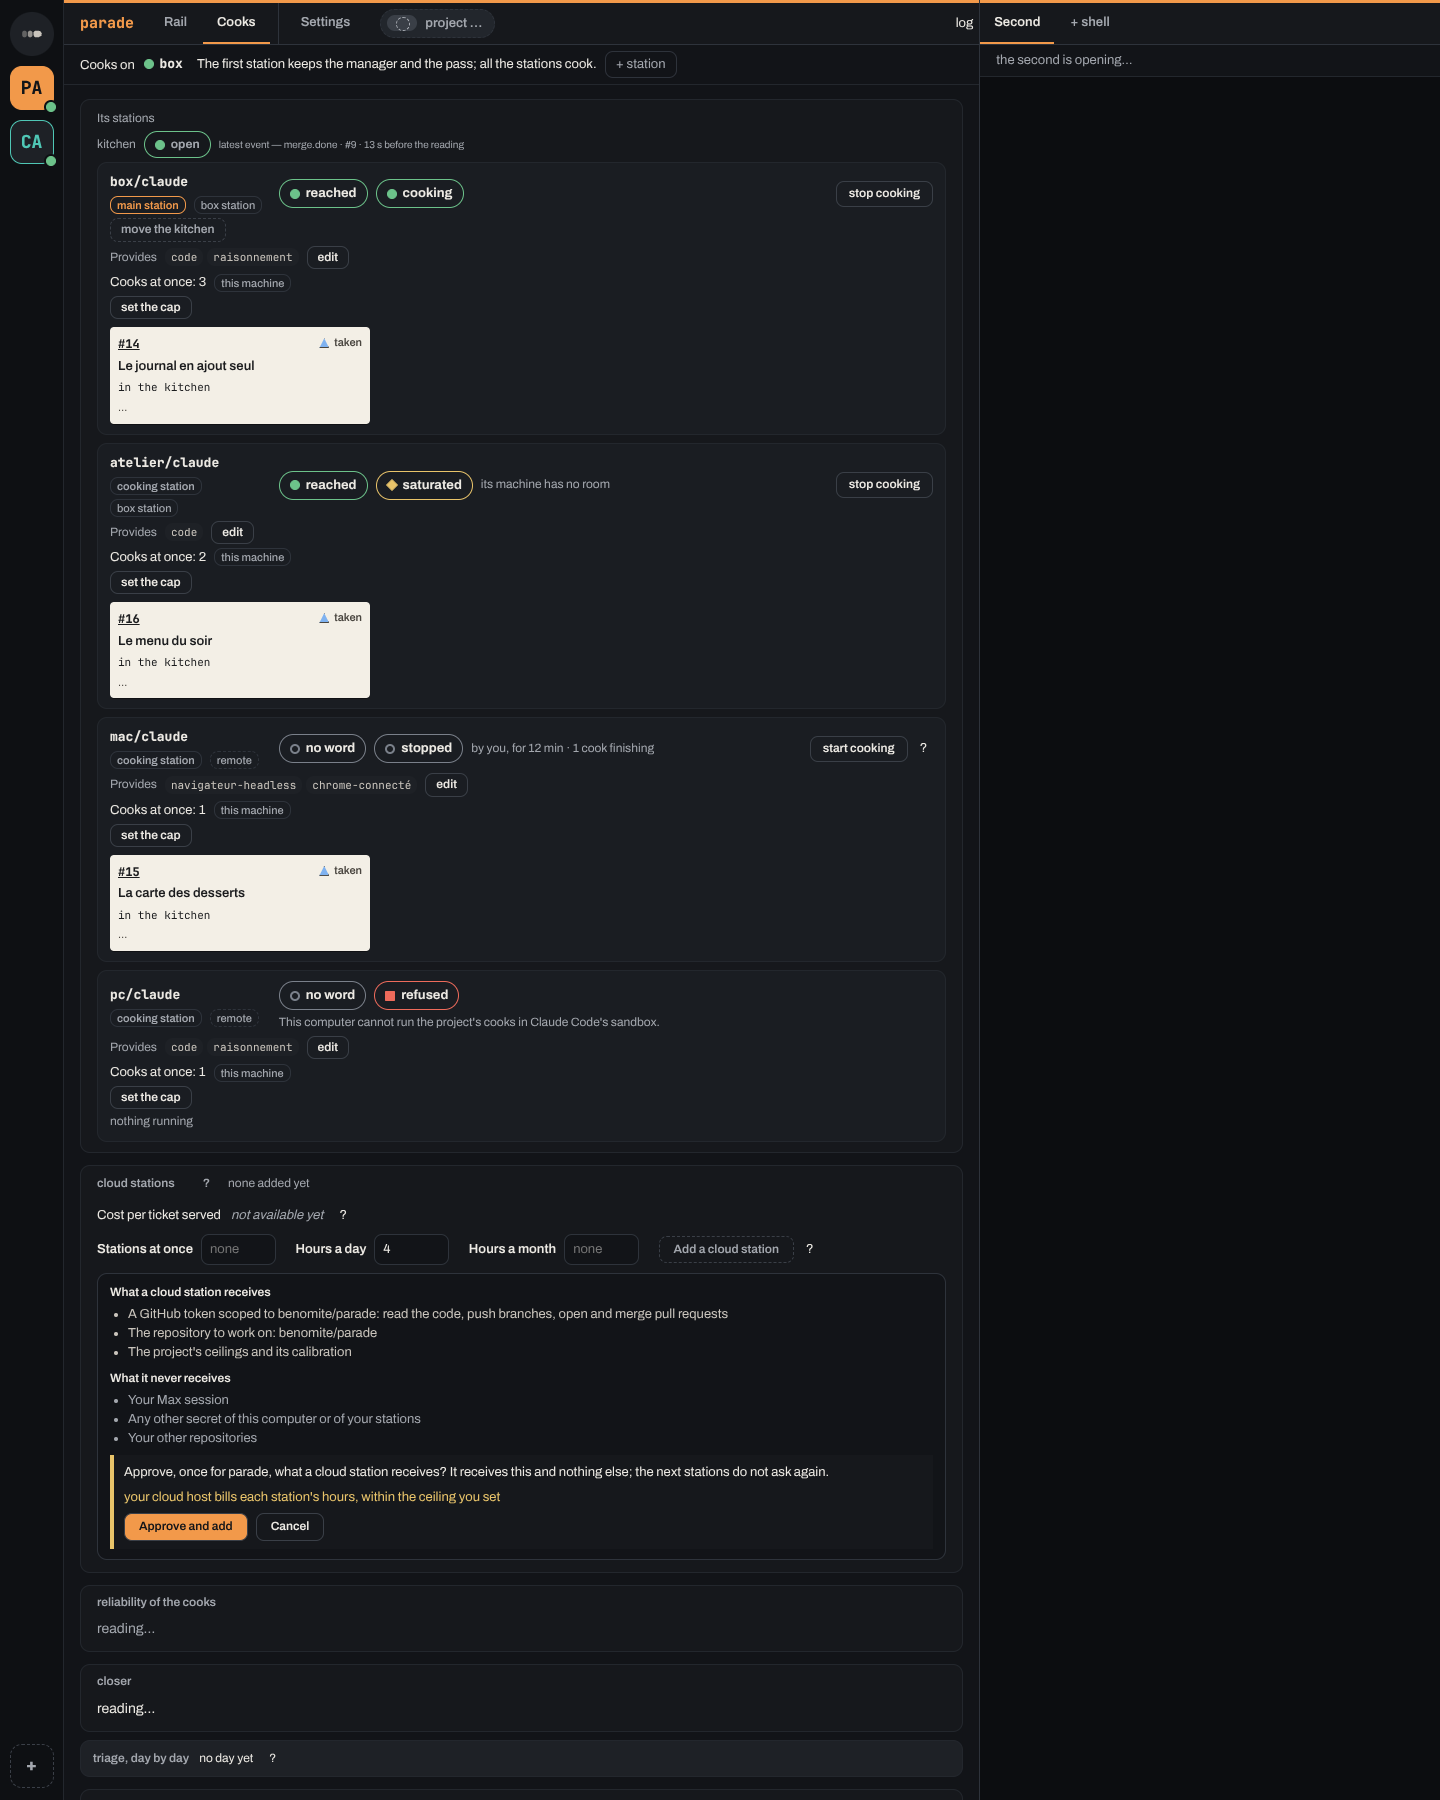
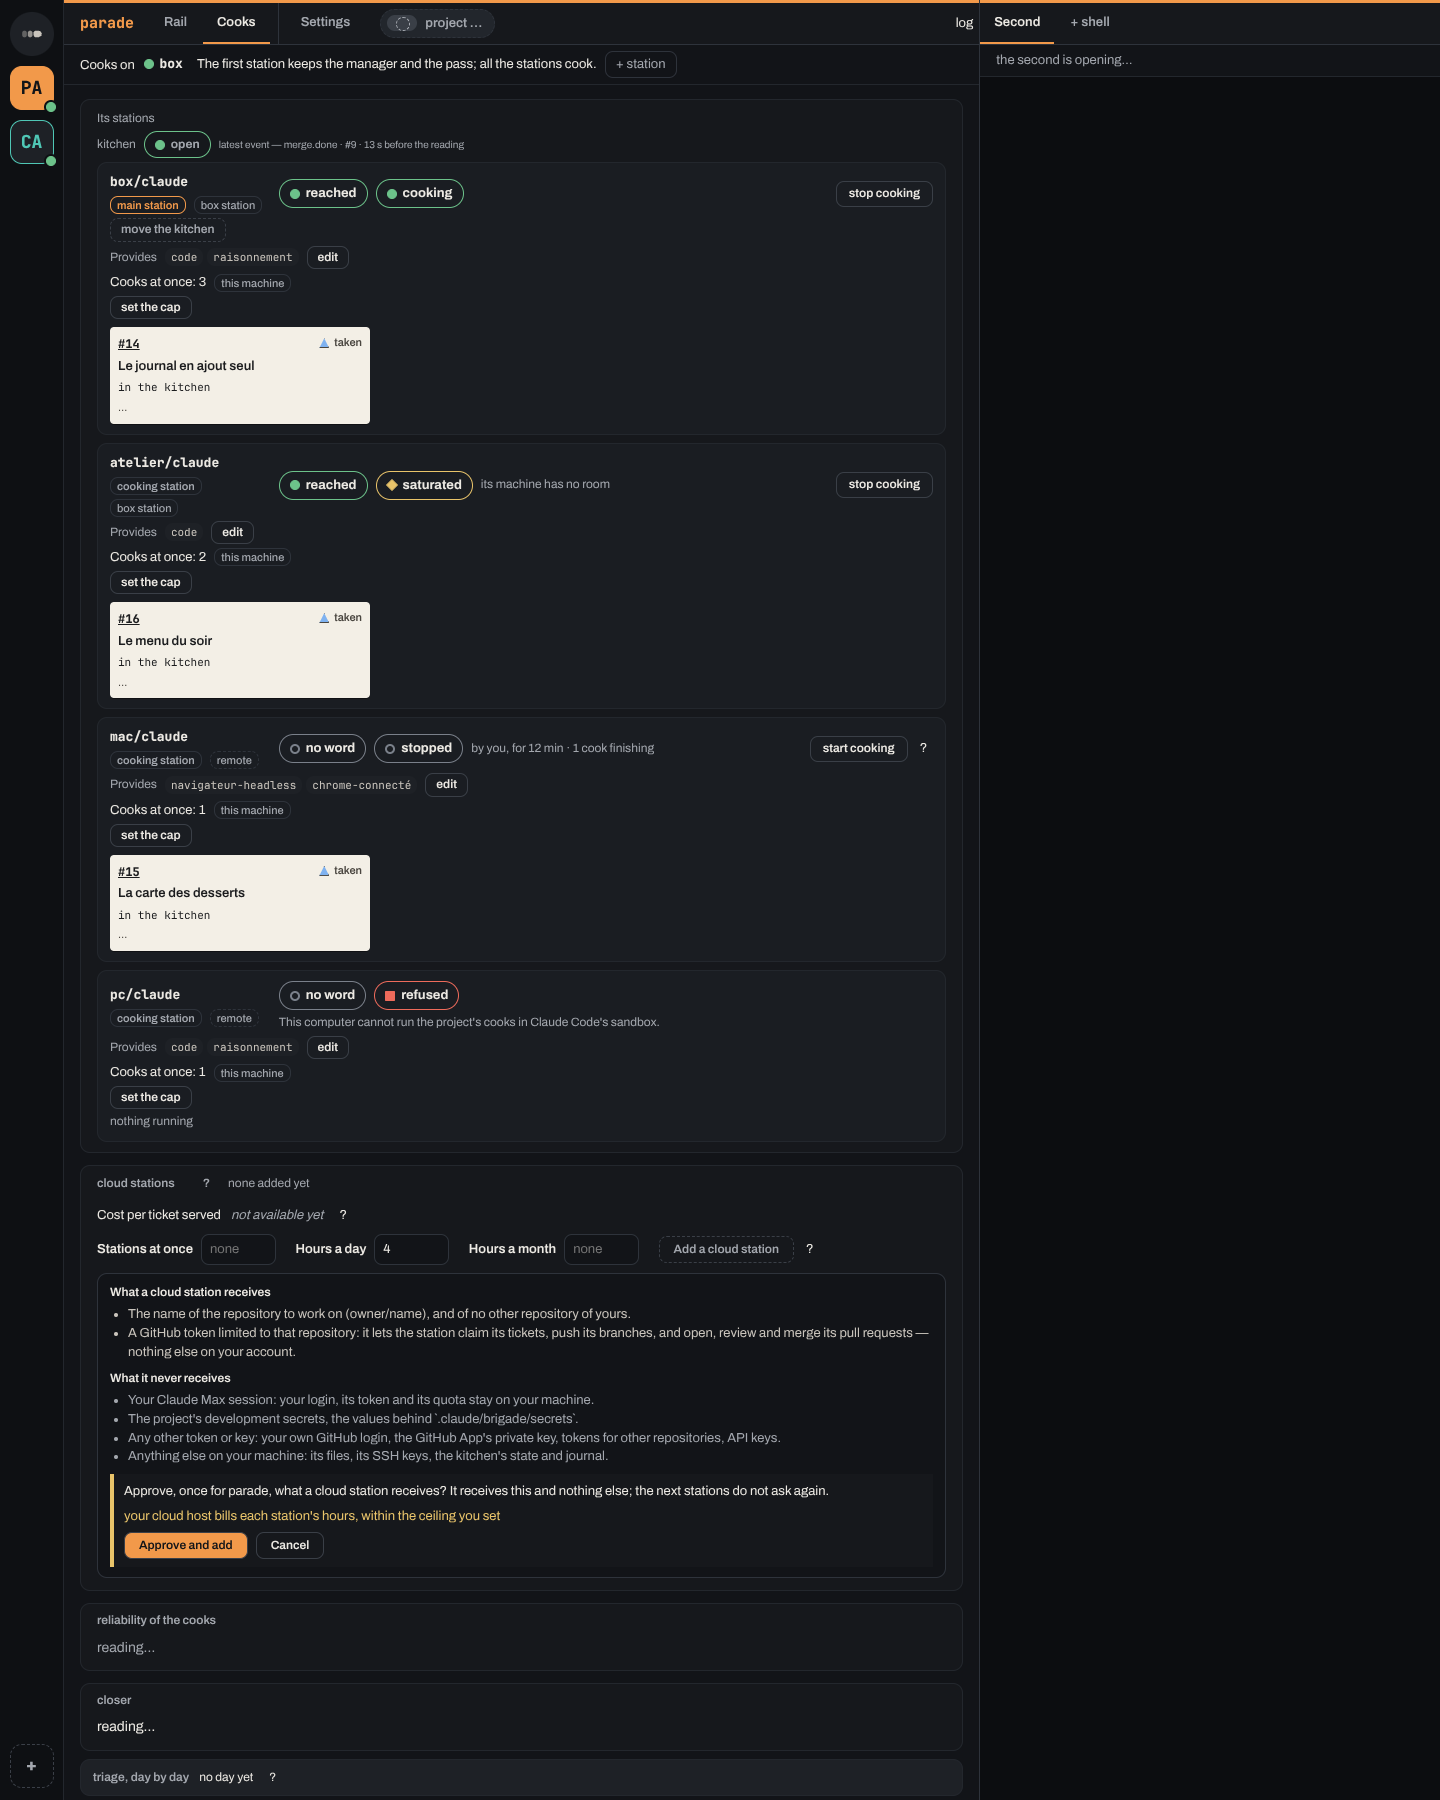
fix(#2232): the cloud stations block reads what a station receives in the runtime's own `Liste` shape
The list of what a cloud station receives and never receives arrives as the
runtime's elements (`{ cle, dit }`, runtime/src/stations-cloud-secrets/, #2231),
not as bare lines: the client reads that shape and refuses any other, and the
view shows each element's `dit`. The capture data carries the runtime's list
word for word, and the approval capture is retaken.

Changed region(s): [[0.0625, 0.7156, 0.5625, 0.9956]]

diff --git a/app/src/stations-cloud/stations-cloud.ts b/app/src/stations-cloud/stations-cloud.ts
@@ -23,10 +23,12 @@ export type CoutDuProjet = {
   coutParTicket: number | "n/a";
 };
 
-// Ce qu'une station reçoit, et ce qu'elle ne reçoit jamais — en mots, pour l'écran (stations-cloud-secrets/).
+// Ce qu'une station reçoit, et ce qu'elle ne reçoit jamais (stations-cloud-secrets/, `Liste`) : chaque élément a son nom
+// dans la charge utile, `cle`, et ce que l'écran en dit, `dit` — le seul texte que la vue montre.
+export type Element = { cle: string; dit: string };
 export type CeQuElleRecoit = {
-  recoit: string[];
-  jamais: string[];
+  recoit: Element[];
+  jamais: Element[];
 };
 
 // Ce que la vue reçoit pour un projet. `approuvee` : le chef a approuvé la liste telle qu'elle est — une liste changée
@@ -48,7 +50,7 @@ export type CloudAjoute = { fait: string } | { refus: string; detail?: string };
 type Lu = Record<string, unknown>;
 const objet = (valeur: unknown): valeur is Lu => typeof valeur === "object" && valeur !== null && !Array.isArray(valeur);
 const chaine = (valeur: unknown): valeur is string => typeof valeur === "string" && valeur.trim() !== "";
-const chaines = (valeur: unknown): valeur is string[] => Array.isArray(valeur) && valeur.every(chaine);
+const elements = (valeur: unknown): valeur is Element[] => Array.isArray(valeur) && valeur.every((element) => objet(element) && chaine(element.cle) && chaine(element.dit));
 const nombre = (valeur: unknown): valeur is number => typeof valeur === "number" && Number.isFinite(valeur) && valeur >= 0;
 
 const BORNES = ["aLaFois", "heuresParJour", "heuresParMois"] as const;
@@ -78,8 +80,9 @@ export function lireCout(valeur: unknown): CoutDuProjet | undefined {
 
 // Ce qu'une station reçoit : une liste vide ne s'approuve pas — l'écran n'aurait rien à montrer avant l'approbation.
 export function lireCeQuElleRecoit(valeur: unknown): CeQuElleRecoit | undefined {
-  if (!objet(valeur) || !chaines(valeur.recoit) || valeur.recoit.length === 0 || !chaines(valeur.jamais)) return undefined;
-  return { recoit: [...valeur.recoit], jamais: [...valeur.jamais] };
+  if (!objet(valeur) || !elements(valeur.recoit) || valeur.recoit.length === 0 || !elements(valeur.jamais)) return undefined;
+  const copie = (liste: Element[]) => liste.map(({ cle, dit }) => ({ cle, dit }));
+  return { recoit: copie(valeur.recoit), jamais: copie(valeur.jamais) };
 }
 
 // La lecture d'un projet, d'une sortie JSON : `undefined` dès qu'une forme n'est pas celle du runtime.

diff --git a/app/test/stations-cloud/stations-cloud.test.ts b/app/test/stations-cloud/stations-cloud.test.ts
@@ -9,7 +9,7 @@ const VU: VuDuCloud = {
   projet: "parade",
   ajoutees: 1,
   plafonds: { aLaFois: 2, heuresParJour: 4 },
-  recoit: { recoit: ["A GitHub token scoped to benomite/parade"], jamais: ["Your Max session"] },
+  recoit: { recoit: [{ cle: "jetonGithub", dit: "A GitHub token limited to that repository" }], jamais: [{ cle: "sessionMax", dit: "Your Claude Max session" }] },
   approuvee: true,
   cout: { projet: "parade", coutTotal: 12.6, ticketsServis: 7, coutParTicket: 1.8 },
   periode: "this month",
@@ -35,10 +35,16 @@ describe("ce que l'app lit des stations cloud d'un projet", () => {
     assert.equal(lireCout({ projet: "parade", coutTotal: 3, ticketsServis: 2, coutParTicket: "beaucoup" }), undefined);
   });
 
-  test("ce qu'une station reçoit : une liste vide ne s'approuve pas", () => {
-    assert.equal(lireCeQuElleRecoit({ recoit: [], jamais: ["Your Max session"] }), undefined);
-    assert.equal(lireCeQuElleRecoit({ recoit: ["a token", ""], jamais: [] }), undefined);
-    assert.deepEqual(lireCeQuElleRecoit({ recoit: ["a token"], jamais: [] }), { recoit: ["a token"], jamais: [] });
+  test("ce qu'une station reçoit : la `Liste` du runtime, chaque élément nommé et dit — une liste vide ne s'approuve pas", () => {
+    const jeton = { cle: "jetonGithub", dit: "A GitHub token limited to that repository" };
+    const max = { cle: "sessionMax", dit: "Your Claude Max session" };
+    assert.deepEqual(lireCeQuElleRecoit({ recoit: [{ ...jeton, autre: 1 }], jamais: [max] }), { recoit: [jeton], jamais: [max] });
+    assert.deepEqual(lireCeQuElleRecoit({ recoit: [jeton], jamais: [] }), { recoit: [jeton], jamais: [] });
+    assert.equal(lireCeQuElleRecoit({ recoit: [], jamais: [max] }), undefined);
+    assert.equal(lireCeQuElleRecoit({ recoit: [jeton, { cle: "depot", dit: "" }], jamais: [] }), undefined);
+    assert.equal(lireCeQuElleRecoit({ recoit: [jeton], jamais: [{ dit: "Your Claude Max session" }] }), undefined);
+    // Une ligne nue n'est pas un élément du runtime : elle ne se lit pas.
+    assert.equal(lireCeQuElleRecoit({ recoit: ["a token"], jamais: [] }), undefined);
   });
 
   test("une forme qui n'est pas la sienne ne se lit pas", () => {

diff --git a/app/test/vue/stations-cloud/stations-cloud.test.ts b/app/test/vue/stations-cloud/stations-cloud.test.ts
@@ -37,7 +37,16 @@ const SANS_STATION: VuDuCloud = {
   projet: PARADE,
   ajoutees: 0,
   plafonds: {},
-  recoit: { recoit: ["A GitHub token scoped to benomite/parade", "The repository to work on: benomite/parade"], jamais: ["Your Max session", "Any other secret"] },
+  recoit: {
+    recoit: [
+      { cle: "depot", dit: "The name of the repository to work on (owner/name), and of no other repository of yours." },
+      { cle: "jetonGithub", dit: "A GitHub token limited to that repository." },
+    ],
+    jamais: [
+      { cle: "sessionMax", dit: "Your Claude Max session." },
+      { cle: "autresJetons", dit: "Any other token or key." },
+    ],
+  },
   approuvee: false,
   cout: { projet: PARADE, coutTotal: 0, ticketsServis: 0, coutParTicket: "n/a" },
   periode: "this month",
@@ -126,7 +135,7 @@ describe("les stations cloud du projet, sur l'onglet Cooks", () => {
     await repos();
     let pose = bloc(vue) ?? assert.fail("plus de bloc");
     assert.deepEqual(textes(pose, "h5"), [RECOIT, JAMAIS]);
-    assert.deepEqual(textes(pose, "li"), [...SANS_STATION.recoit.recoit, ...SANS_STATION.recoit.jamais]);
+    assert.deepEqual(textes(pose, "li"), [...SANS_STATION.recoit.recoit, ...SANS_STATION.recoit.jamais].map((element) => element.dit));
     // La confirmation dit son prix en une ligne ; le bouton d'ajout attend la réponse.
     const confirmation = pose.dessous("section").find(({ className }) => className === "confirmation") ?? assert.fail("pas de confirmation");
     assert.equal(confirmation.dessous("p").filter(({ className }) => className === "prix").length, 1);

diff --git a/scripts/capture-ecran/ecrans/cooks-cloud.ts b/scripts/capture-ecran/ecrans/cooks-cloud.ts
@@ -10,9 +10,21 @@ export const SANS_STATION: VuDuCloud = {
   projet: "parade",
   ajoutees: 0,
   plafonds: {},
+  // La liste de stations-cloud-secrets/ du runtime (#2231), mot pour mot.
   recoit: {
-    recoit: ["A GitHub token scoped to benomite/parade: read the code, push branches, open and merge pull requests", "The repository to work on: benomite/parade", "The project's ceilings and its calibration"],
-    jamais: ["Your Max session", "Any other secret of this computer or of your stations", "Your other repositories"],
+    recoit: [
+      { cle: "depot", dit: "The name of the repository to work on (owner/name), and of no other repository of yours." },
+      {
+        cle: "jetonGithub",
+        dit: "A GitHub token limited to that repository: it lets the station claim its tickets, push its branches, and open, review and merge its pull requests — nothing else on your account.",
+      },
+    ],
+    jamais: [
+      { cle: "sessionMax", dit: "Your Claude Max session: your login, its token and its quota stay on your machine." },
+      { cle: "secretsDuProjet", dit: "The project's development secrets, the values behind `.claude/brigade/secrets`." },
+      { cle: "autresJetons", dit: "Any other token or key: your own GitHub login, the GitHub App's private key, tokens for other repositories, API keys." },
+      { cle: "machine", dit: "Anything else on your machine: its files, its SSH keys, the kitchen's state and journal." },
+    ],
   },
   approuvee: false,
   cout: { projet: "parade", coutTotal: 0, ticketsServis: 0, coutParTicket: "n/a" },

diff --git a/app/src/vue/stations-cloud/stations-cloud.js b/app/src/vue/stations-cloud/stations-cloud.js
@@ -17,6 +17,7 @@ import { boutonAction, confirmationDeGeste, lectureIndisponible, replie, survol 
 /** @typedef {import("../../stations-cloud/stations-cloud.ts").VuDuCloud} VuDuCloud */
 /** @typedef {import("../../stations-cloud/stations-cloud.ts").Plafonds} Plafonds */
 /** @typedef {import("../../stations-cloud/stations-cloud.ts").CloudAjoute} CloudAjoute */
+/** @typedef {import("../../stations-cloud/stations-cloud.ts").Element} Element */
 /** @typedef {"aLaFois" | "heuresParJour" | "heuresParMois"} Borne */
 /**
  * Ce que le chef a saisi sur le bloc, gardé d'un repos à l'autre : les trois plafonds tels qu'ils sont tapés, la liste
@@ -118,13 +119,14 @@ function champDe(doc, projet, saisie, borne) {
   return pose;
 }
 
-// Une liste de ce qu'une station reçoit — ou ne reçoit jamais —, son titre en tête.
-/** @param {Fabrique} doc @param {string} titre @param {string[]} lignes */
+// Une liste de ce qu'une station reçoit — ou ne reçoit jamais —, son titre en tête : chaque élément dit en clair, tel que
+// le runtime l'écrit.
+/** @param {Fabrique} doc @param {string} titre @param {Element[]} lignes */
 function listeDe(doc, titre, lignes) {
   const pose = cree(doc, "div");
   const liste = cree(doc, "ul");
   liste.ariaLabel = titre;
-  liste.append(...lignes.map((ligne) => cree(doc, "li", ligne)));
+  liste.append(...lignes.map((ligne) => cree(doc, "li", ligne.dit)));
   pose.append(cree(doc, "h5", titre), liste);
   return pose;
 }

diff --git a/docs/app.md b/docs/app.md
@@ -136,7 +136,7 @@ hours), adds a station in one click once two things hold, checked in this order:
 leaves and the line under the button says `Set a ceiling first — …` (a field that is not a positive number, or a
 fractional `Stations at once`, is refused the same way); and **what a cloud station receives, approved once**: before the
 first station, the click opens the list of what it receives and of what it never receives (the Max session, the other
-secrets), with `Approve and add`, recommended, its price in one line, and `Cancel`. Approved, the list is folded under the
+secrets) — each item's `dit`, word for word, from the runtime's `Liste` —, with `Approve and add`, recommended, its price in one line, and `Cancel`. Approved, the list is folded under the
 ceilings (`What a cloud station receives — approved`) and the next station is added with no question; a changed list
 arrives unapproved and asks again. What the add returned is one line under the block, a refusal with its detail on hover;
 a read that fails says `cloud stations: not read`. **The block is drawn but not yet live**: no runtime command publishes
